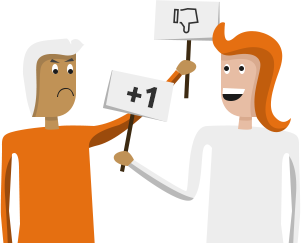
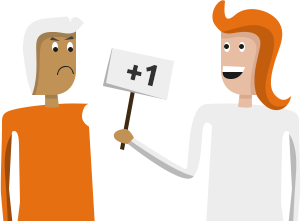
hand kick :)

diff --git a/public/stylesheets/all.css b/public/stylesheets/all.css
@@ -529,9 +529,21 @@ input {
   left: 50%;
   margin-left: -150px;
   width: 301px;
-  height: 243px;
+  height: 221px;
   background: url("../images/guest-jury.png") no-repeat;
-  display: none;
+  z-index: 2;
+}
+.page-guest .jury-hand-bad {
+  width: 117px;
+  height: 186px;
+  background: url("../images/guest-jury-hand-bad.png") no-repeat;
+  position: fixed;
+  left: 50%;
+  bottom: 87px;
+  margin-left: -79px;
+  transform-origin: 15px 91%;
+  -webkit-animation: kikbad ease-in-out 3s;
+  -webkit-animation-iteration-count: infinite;
 }
 .page-guest .start-box {
   position: relative;
@@ -603,6 +615,17 @@ input {
   visibility: visible;
   transform: translateY(-132px);
   opacity: 1;
+}
+@-webkit-keyframes kikbad {
+  0% {
+    transform: rotate(0);
+  }
+  50% {
+    transform: rotate(20deg);
+  }
+  100% {
+    transform: rotate(0);
+  }
 }
 .page-inner {
   background: #202020 url("../images/inner-bg.png");

diff --git a/public/less/guest.less b/public/less/guest.less
@@ -20,9 +20,23 @@
 		left: 50%;
 		margin-left: -150px;
 		width: 301px;
-		height: 243px;
+		height: 221px;
 		background: url("@{img}/guest-jury.png") no-repeat;
-		display: none;
+		z-index: 2;
+		// display: none;
+	}
+
+	.jury-hand-bad {
+		width: 117px;
+		height: 186px;
+		background: url("@{img}/guest-jury-hand-bad.png") no-repeat;
+		position: fixed;
+		left: 50%;
+		bottom: 87px;
+		margin-left: -79px;
+		transform-origin: 15px 91%;
+		-webkit-animation: kikbad ease-in-out 3s;
+		-webkit-animation-iteration-count: infinite;
 	}
 
 	.start-box {
@@ -112,4 +126,16 @@
 		}
 
 	}
+}
+
+@-webkit-keyframes kikbad {
+  0% {
+    transform: rotate(0);
+  }
+  50% {
+    transform: rotate(20deg);
+  }
+  100% {
+    transform: rotate(0);
+  }
 }

diff --git a/layout/guest.html b/layout/guest.html
@@ -33,6 +33,7 @@
         </div>
 
         <div class="jury"></div>
+        <div class="jury-hand-bad"></div>
 
     </body>
 </html>
